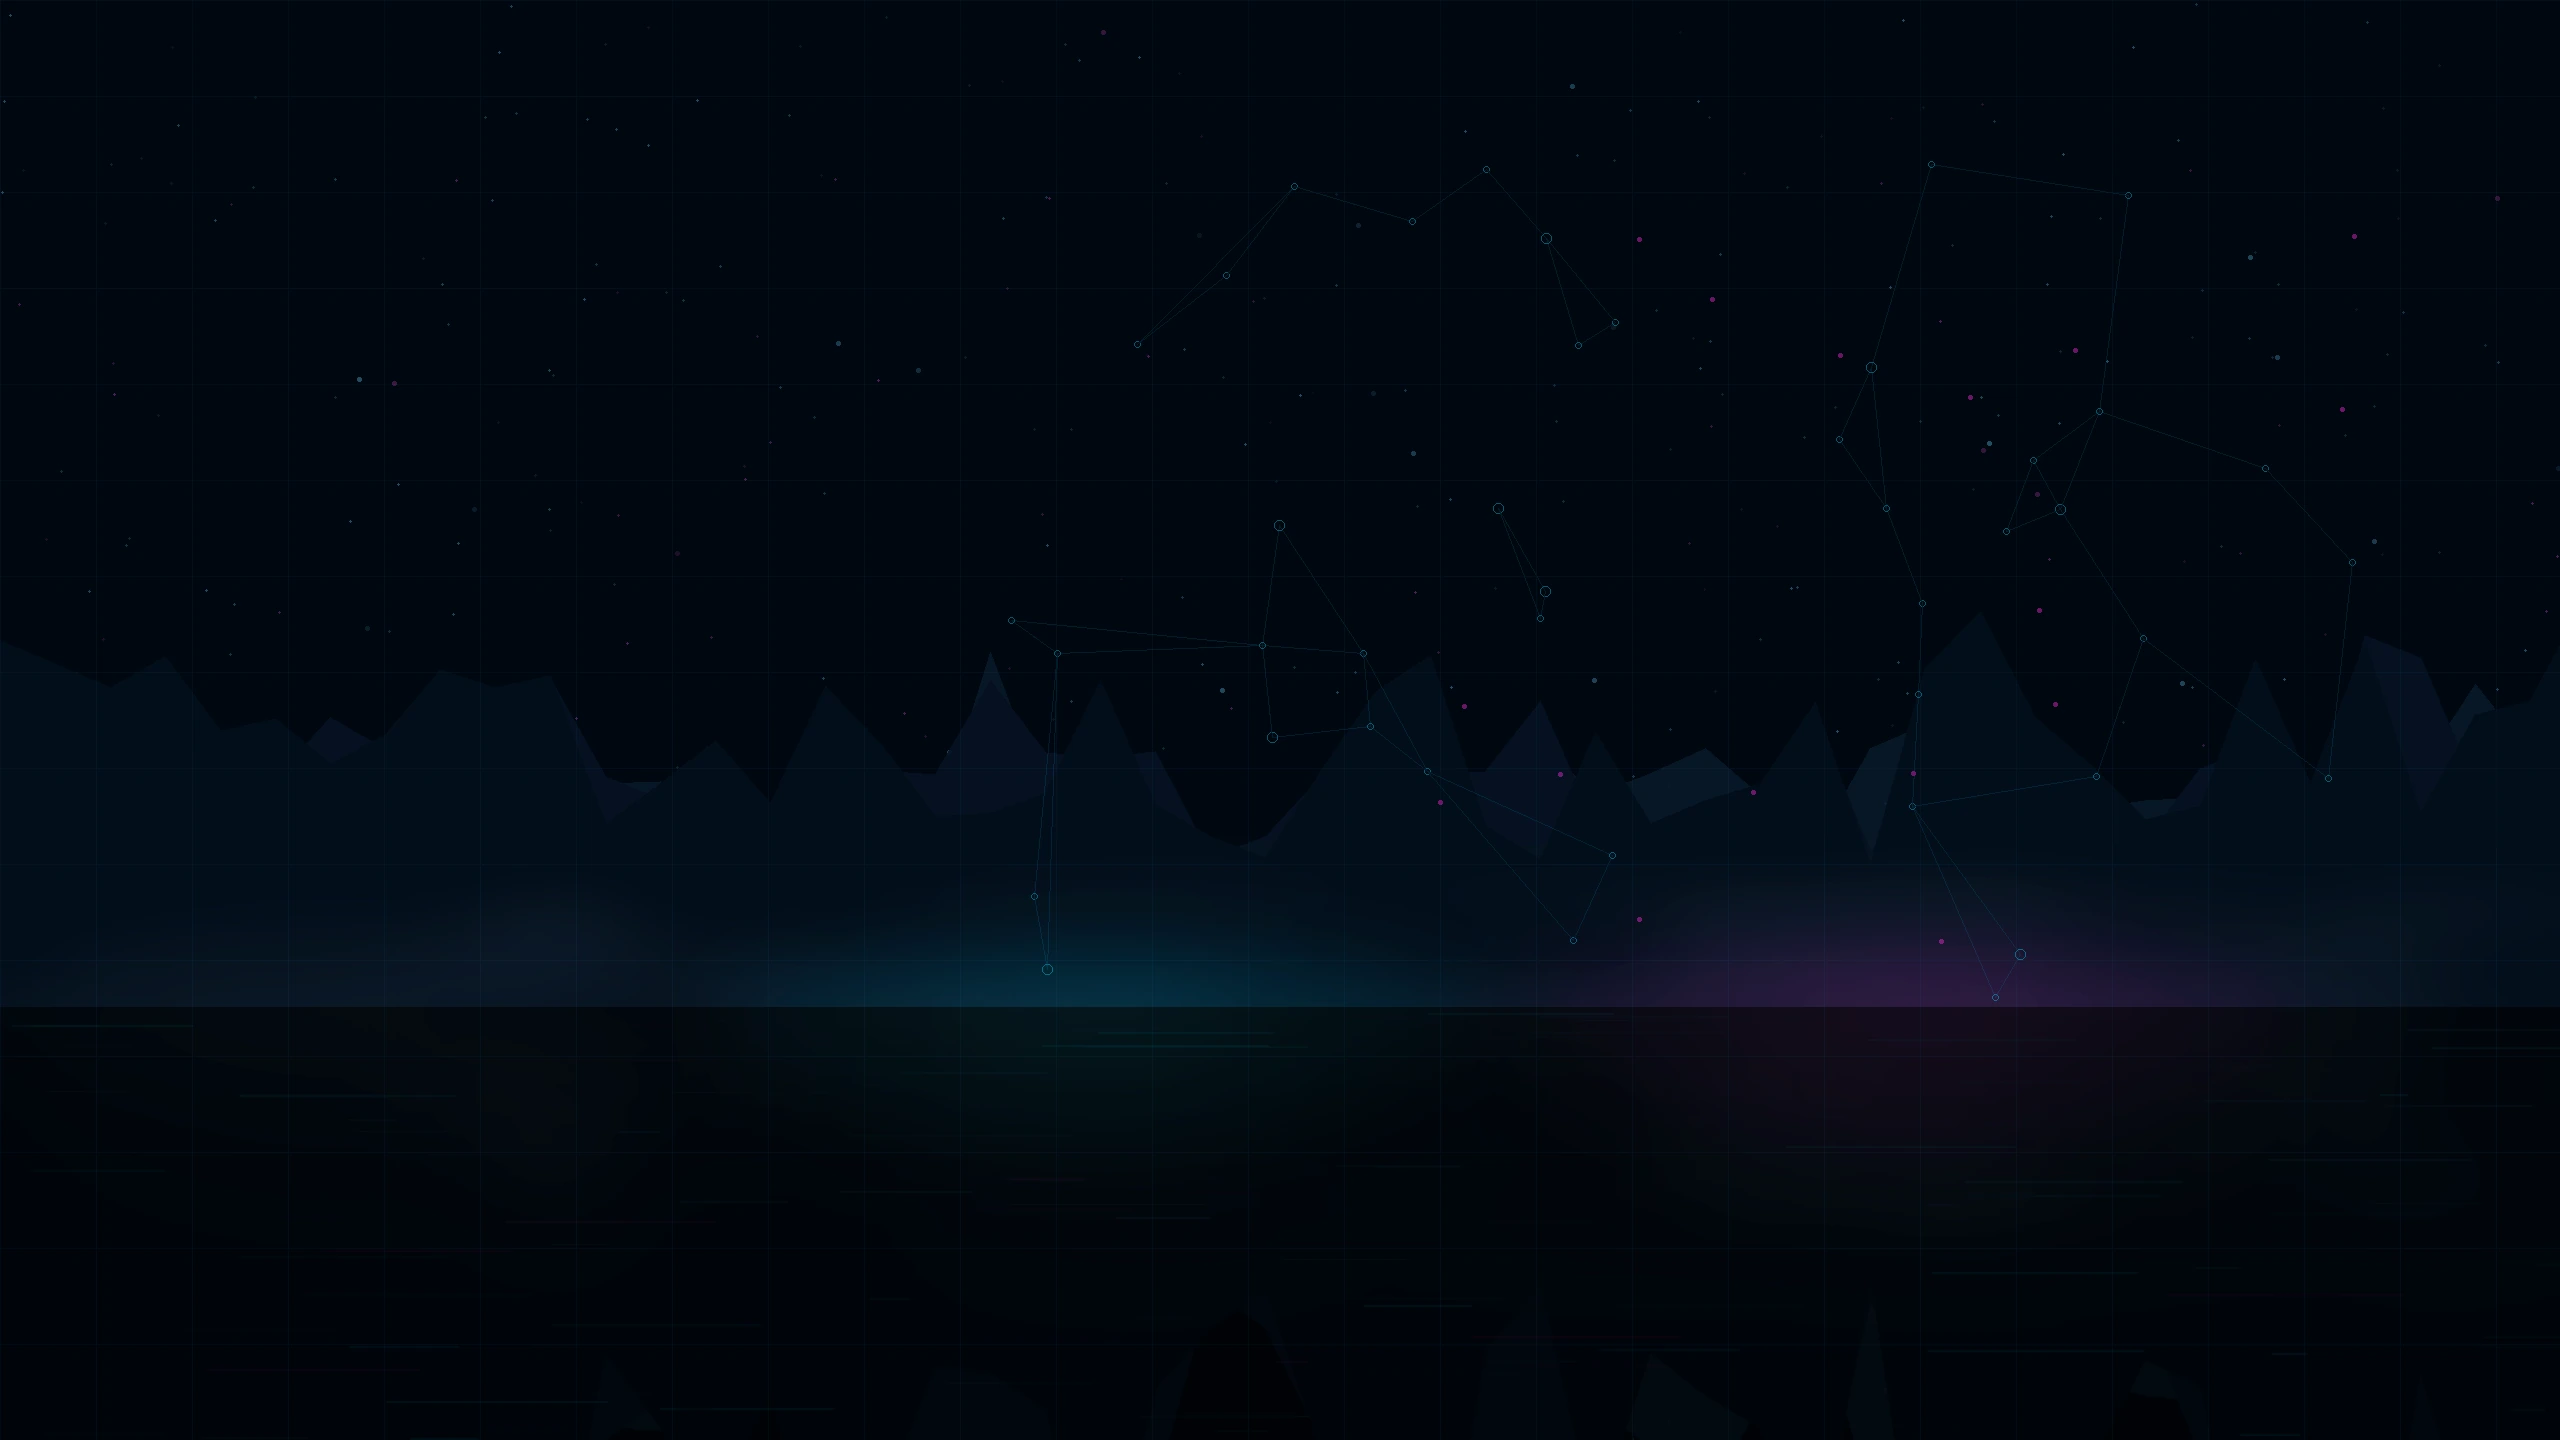
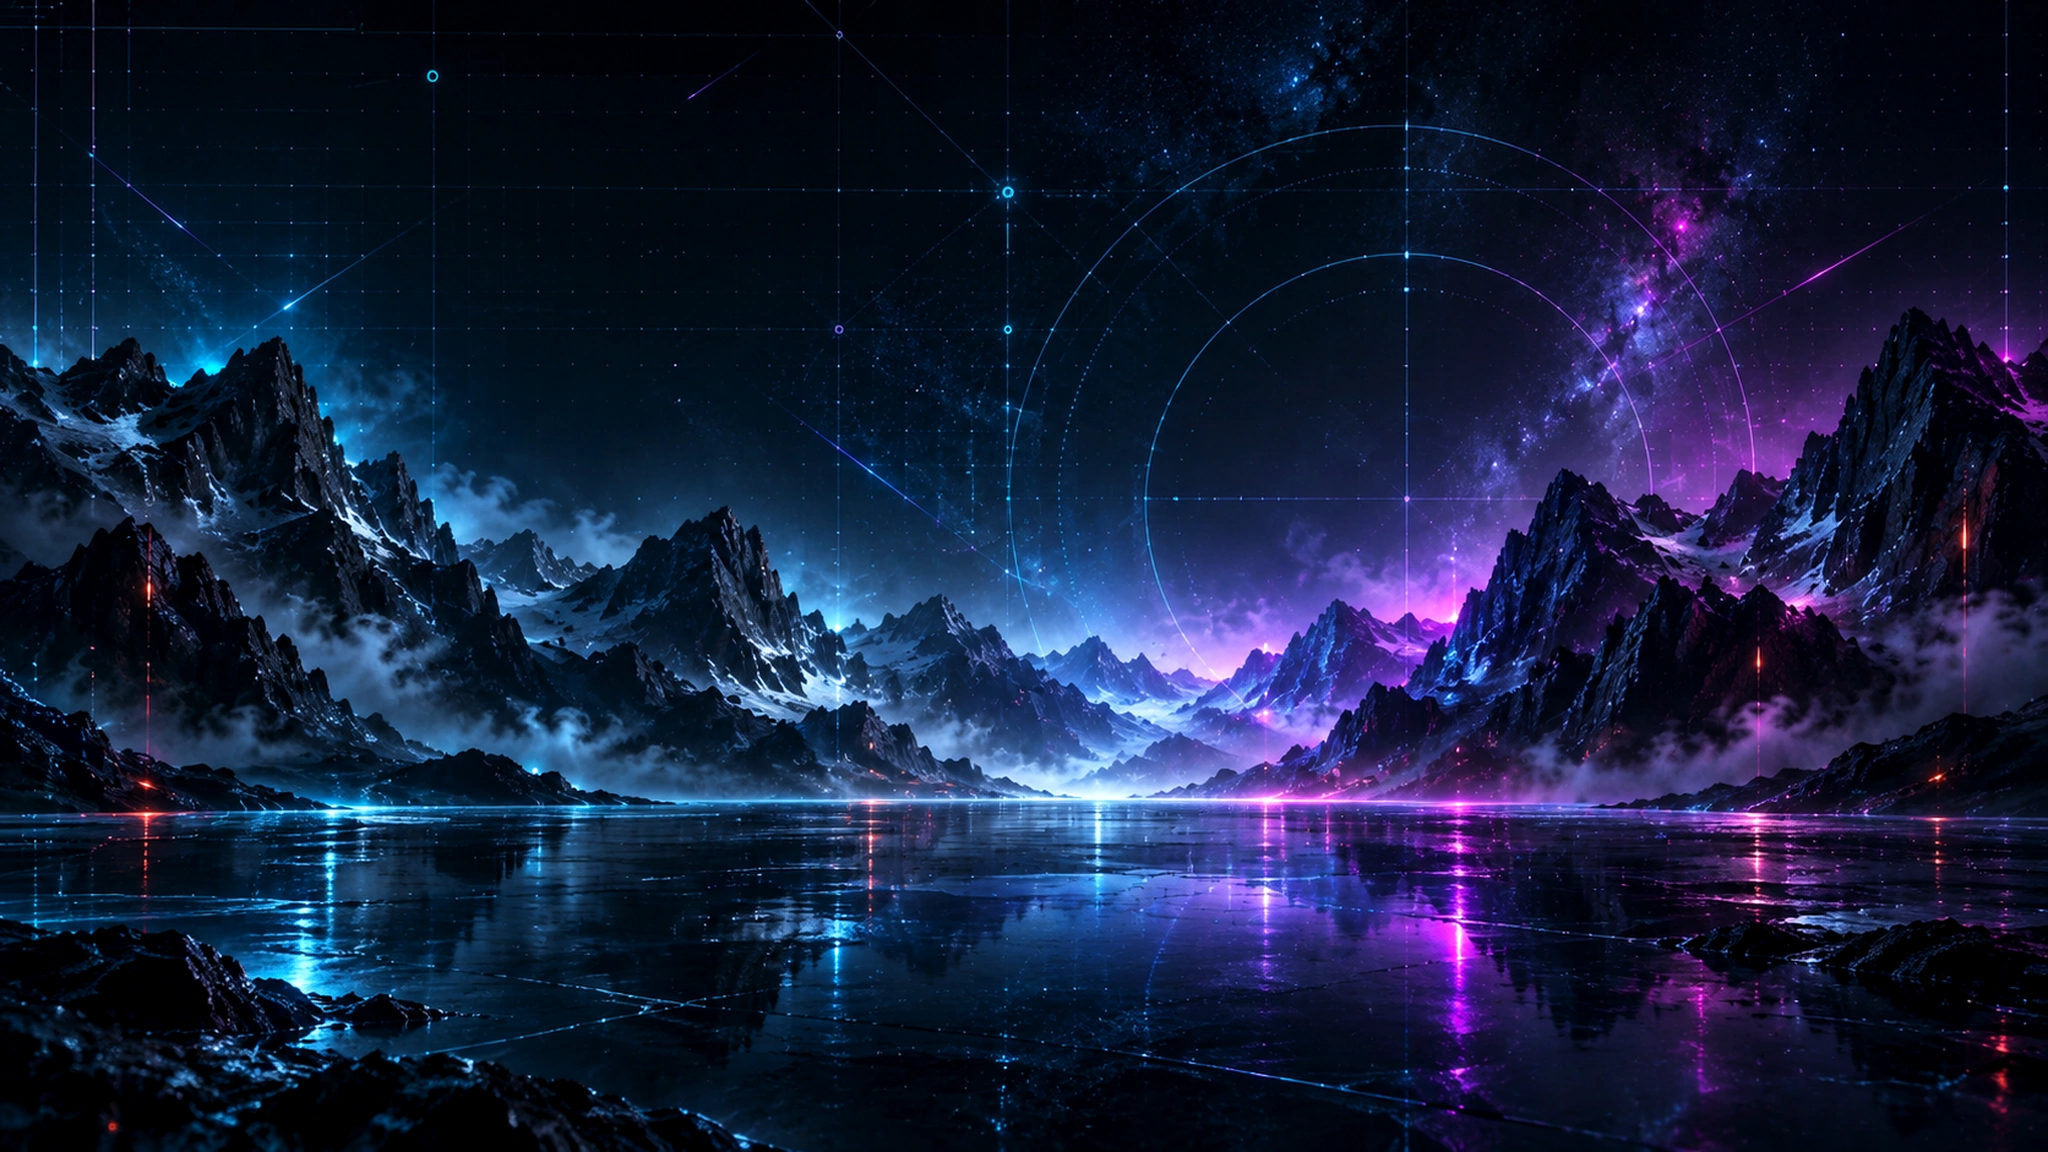
fix: V6.4.1 install final cinematic mountain backgrounds

diff --git a/ghostops-v64-home-reference.css b/ghostops-v64-home-reference.css
@@ -5,7 +5,7 @@
    ============================================================ */
 
 :root{
-  --v64-world:url("/assets/iko-prime/ghostops/home-v64/home-world-dark.webp?v=64");
+  --v64-world:url("/assets/iko-prime/ghostops/home-v64/home-world-dark.webp?v=641");
   --v64-frame:url("/assets/iko-prime/ghostops/home-v64/home-hud-frame.svg?v=64");
   --v64-network:url("/assets/iko-prime/ghostops/home-v64/home-network.svg?v=64");
   --v64-card:rgba(4,14,25,.78);
@@ -13,7 +13,7 @@
   --v64-header:rgba(2,8,15,.88);
 }
 html[data-ui-theme="light"]{
-  --v64-world:url("/assets/iko-prime/ghostops/home-v64/home-world-light.webp?v=64");
+  --v64-world:url("/assets/iko-prime/ghostops/home-v64/home-world-light.webp?v=641");
   --v64-card:rgba(250,253,255,.83);
   --v64-card-strong:rgba(255,255,255,.94);
   --v64-header:rgba(250,253,255,.90);
